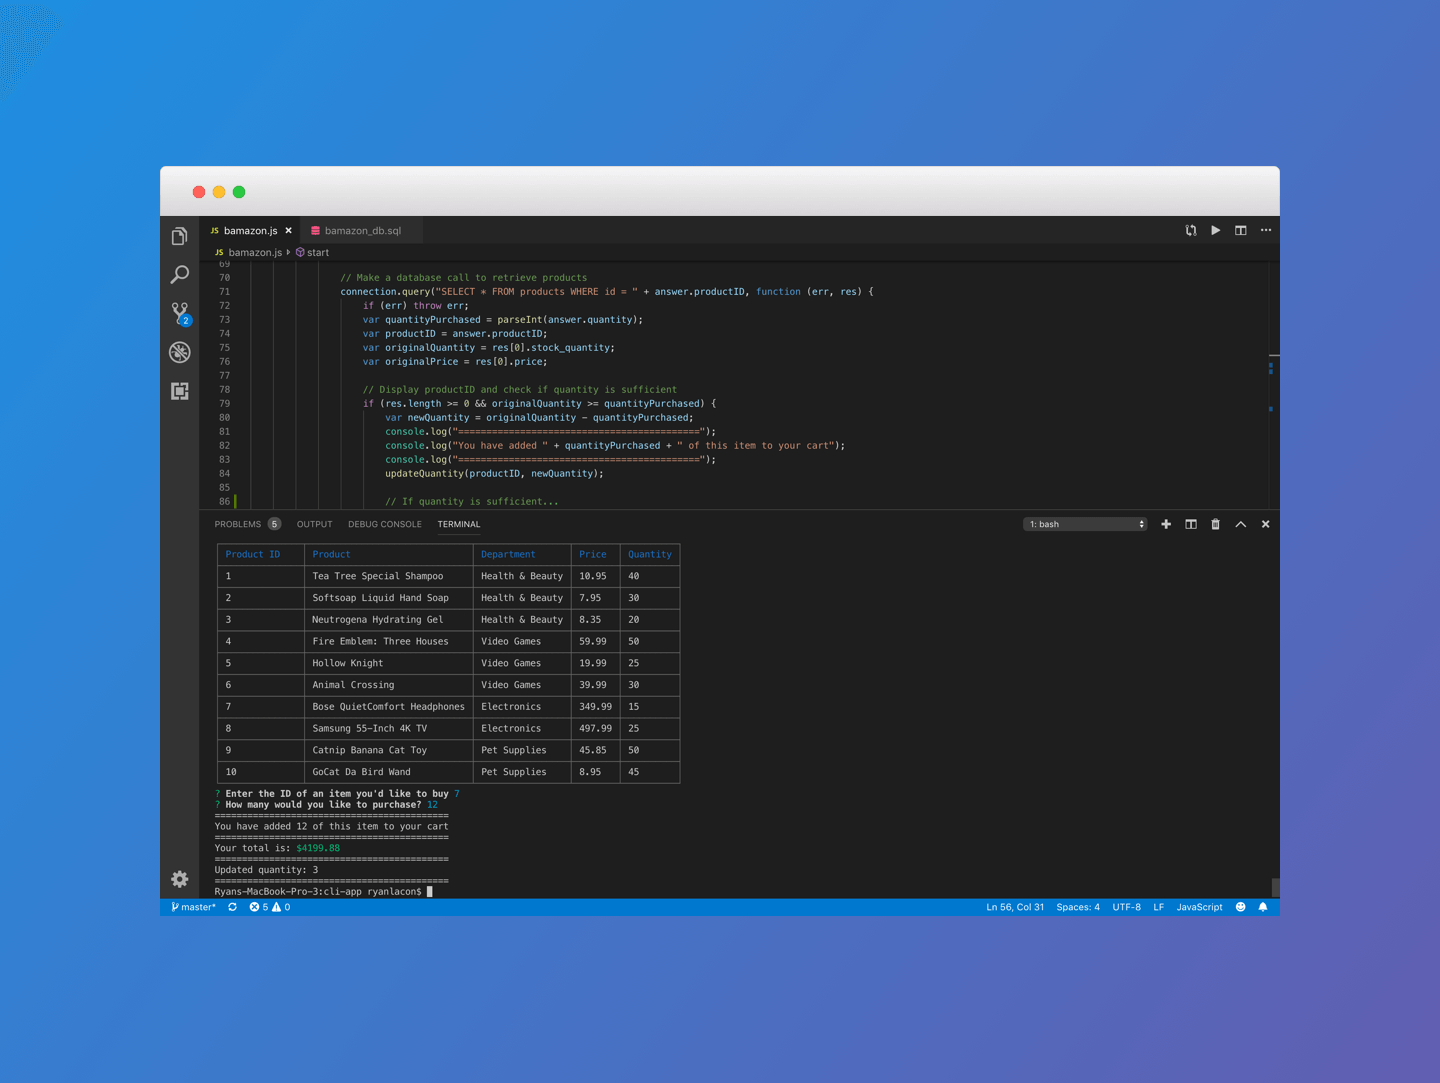
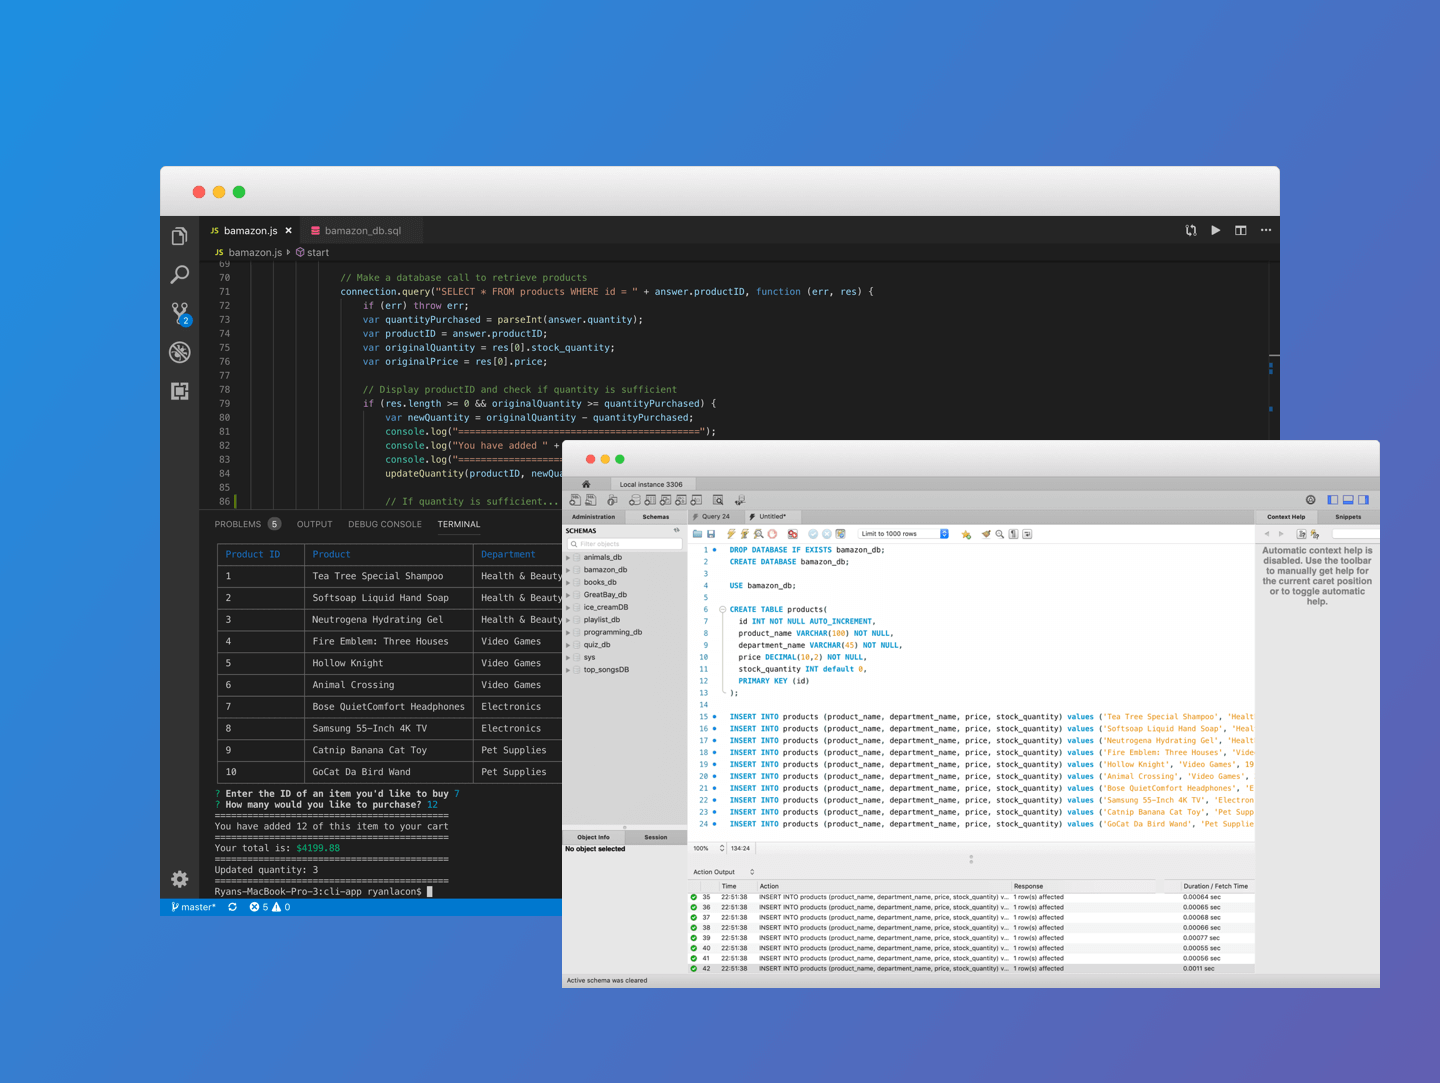
Reordered portfolio project. Added new image for mySQL app.

Changed region(s): [[0.375, 0.3961, 0.9688, 0.9141], [0.0, 0.0, 0.0312, 0.0609]]

diff --git a/index.html b/index.html
@@ -192,13 +192,31 @@
                 </div>
 
                 <div class="col-xl-4 col-lg-6 col-md-6 col-sm-12 projects">
+                    <a class="card2" target="_blank" href="https://github.com/rlacon/cli-app"
+                        class="text-dark text-decoration-none">
+                        <div class="shadow-sm mb-3 bg-white rounded">
+
+                            <img class="card-img-top" src="images/cli-app-pic.png"
+                                alt="Train scheduler with train data and a form">
+                            <div class="card-body rounded" style="background-color: white">
+                                <div class="align-items-center">
+                                    <h5 class="card-text">MySQL Node App</h5>
+                                </div>
+                            </div>
+                        </div>
+                        <a class="github-links" target="_blank" href="https://github.com/rlacon/cli-app">View Github
+                            Repo</a>
+                    </a>
+                </div>
+
+                <div class="col-xl-4 col-lg-6 col-md-6 col-sm-12 projects">
                     <a class="card2" target="_blank" href="https://github.com/rlacon/liri-node-app"
                         class="text-dark text-decoration-none">
                         <div class="shadow-sm mb-3 bg-white rounded">
                             <img class="card-img-top image" src="images/liri-pic.png"
                                 alt="Text displaying a hangman game">
                             <div class="card-body rounded" style="background-color: white">
-                                <h5 class="card-text align-middle">Node.JS App</h5>
+                                <h5 class="card-text align-middle">Node.js App</h5>
                             </div>
                         </div>
                         <a class="github-links" target="_blank" href="https://github.com/rlacon/liri-node-app">View
@@ -239,24 +257,6 @@
                             </div>
                         </div>
                         <a class="github-links" target="_blank" href="https://github.com/rlacon/giphy-api">View Github
-                            Repo</a>
-                    </a>
-                </div>
-
-                <div class="col-xl-4 col-lg-6 col-md-6 col-sm-12 projects">
-                    <a class="card2" target="_blank" href="https://github.com/rlacon/cli-app"
-                        class="text-dark text-decoration-none">
-                        <div class="shadow-sm mb-3 bg-white rounded">
-
-                            <img class="card-img-top" src="images/cli-app-pic.png"
-                                alt="Train scheduler with train data and a form">
-                            <div class="card-body rounded" style="background-color: white">
-                                <div class="align-items-center">
-                                    <h5 class="card-text">Bamazon App</h5>
-                                </div>
-                            </div>
-                        </div>
-                        <a class="github-links" target="_blank" href="https://github.com/rlacon/cli-app">View Github
                             Repo</a>
                     </a>
                 </div>
